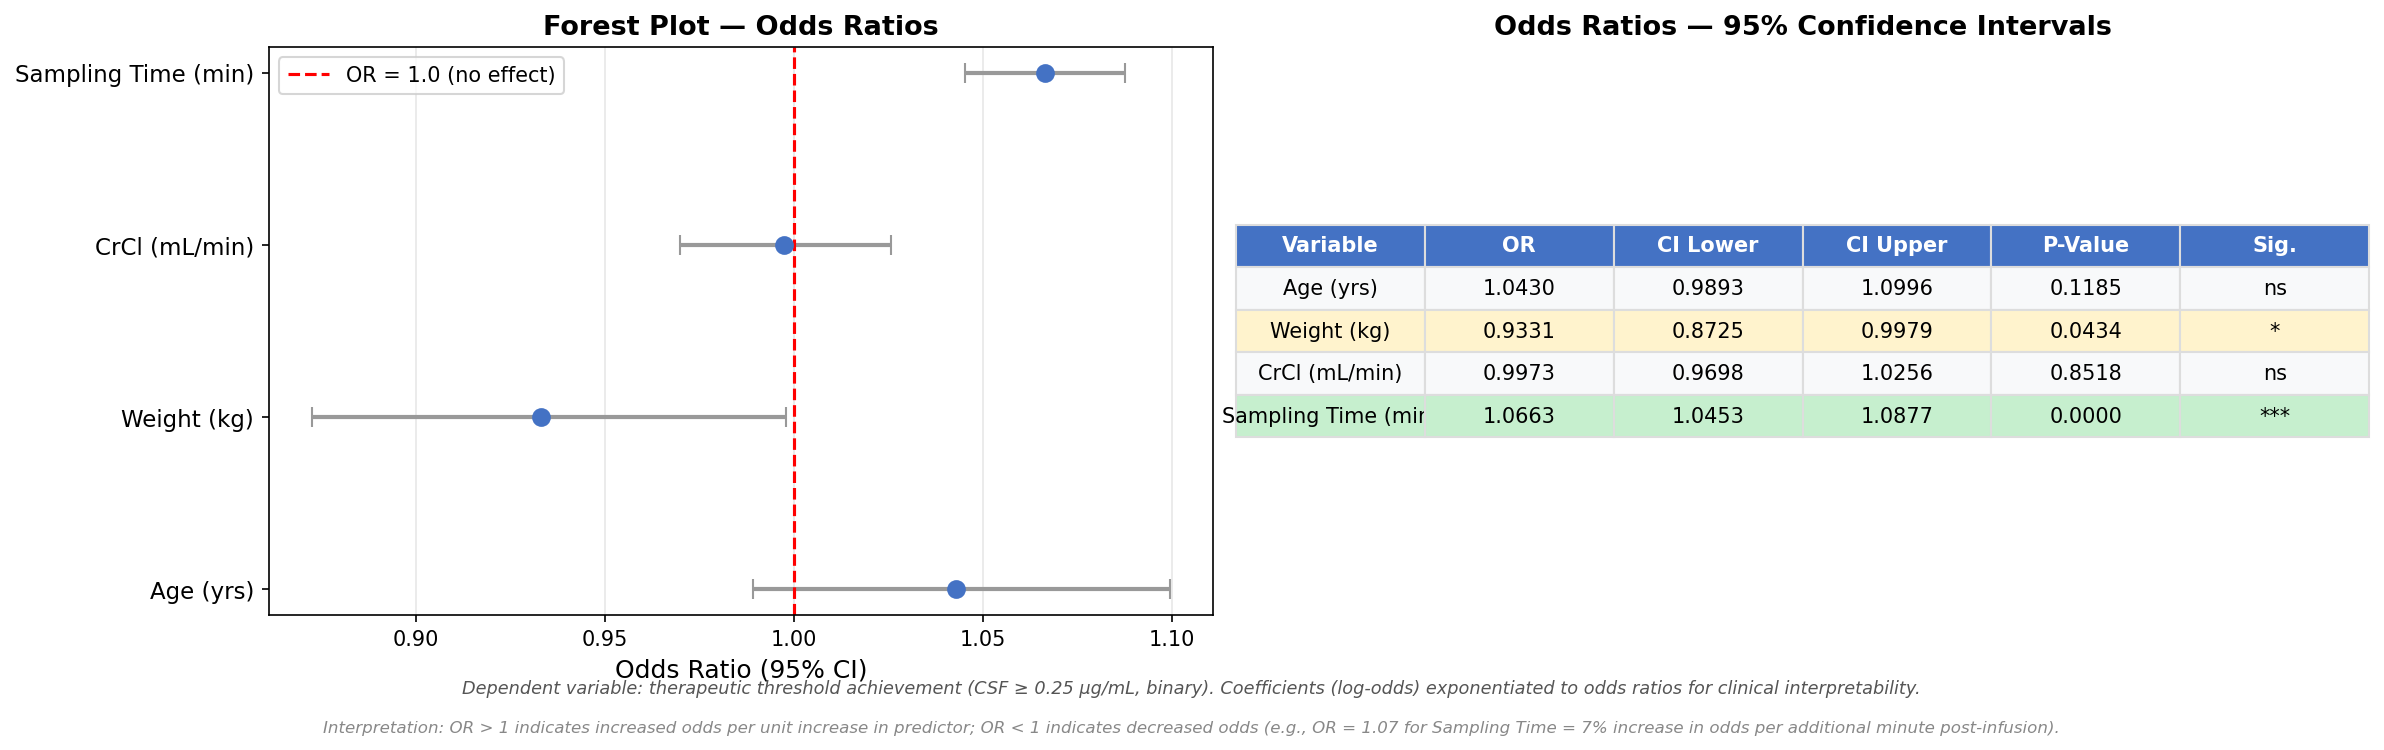
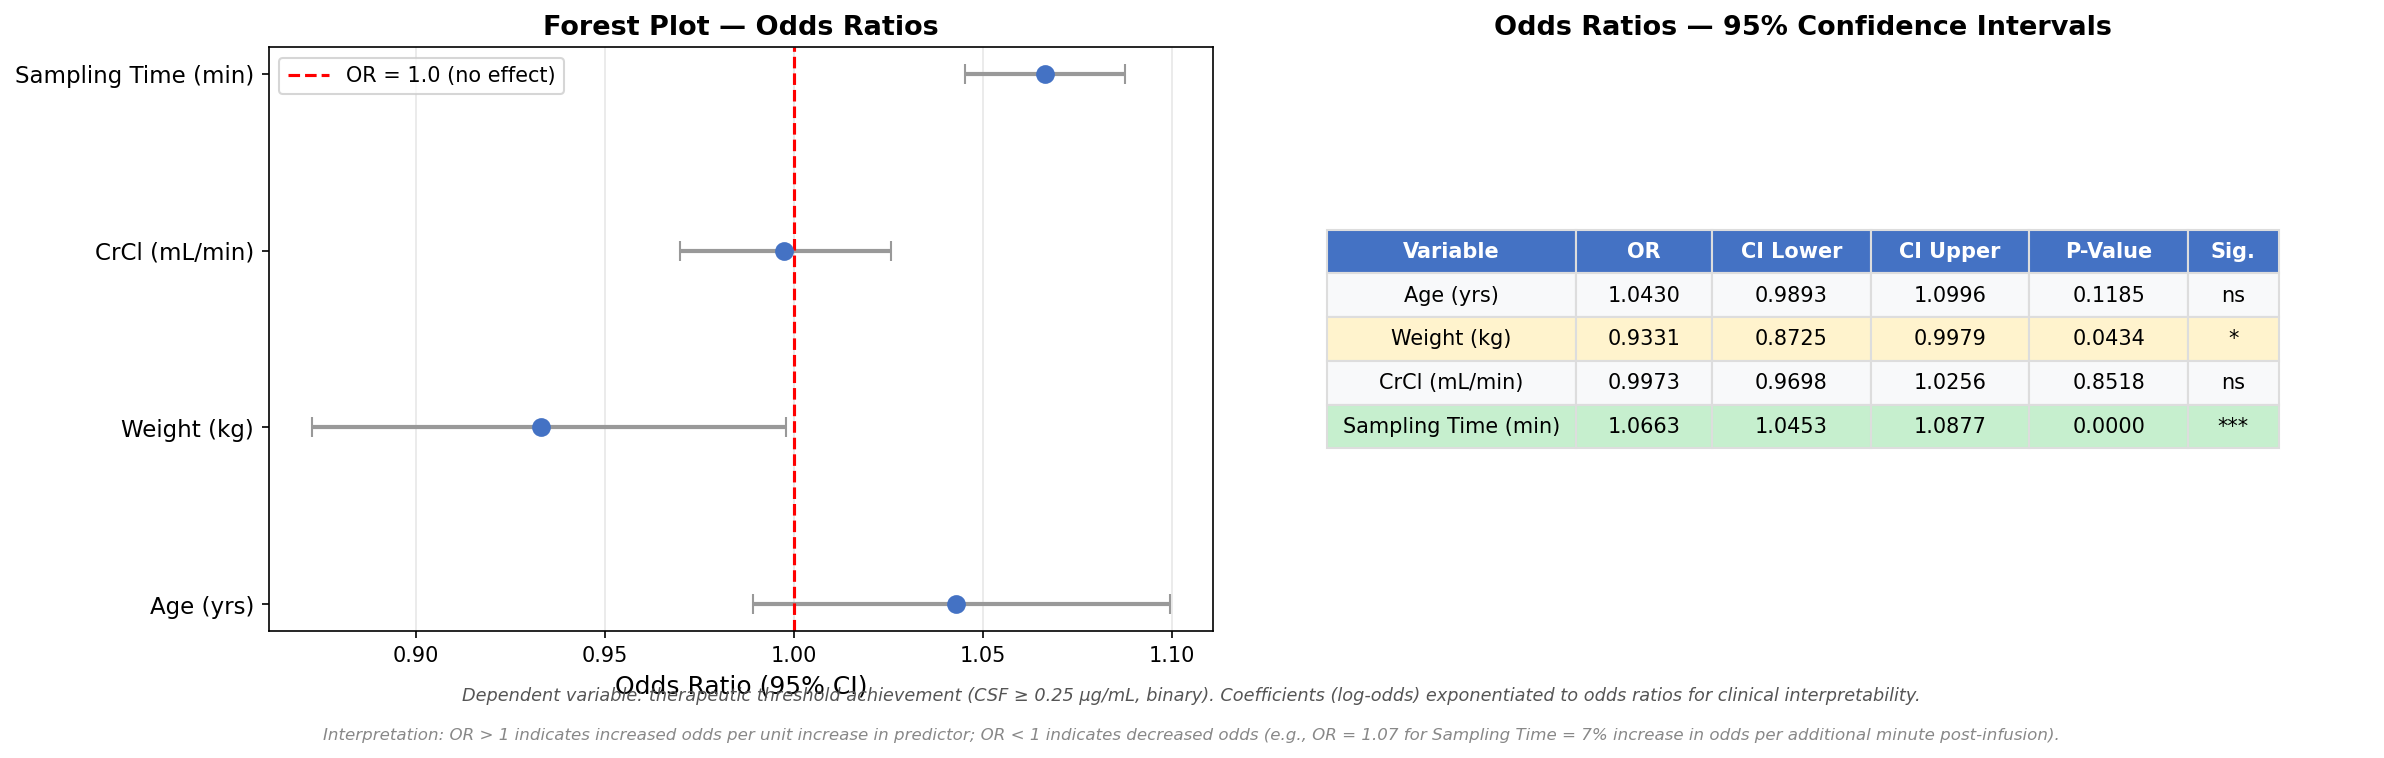
Adjust odds ratios table column widths and footnote spacing

diff --git a/analysis.py b/analysis.py
@@ -252,19 +252,22 @@ table5 = ax5b.table(cellText=or_rows, colLabels=or_col_labels, cellColours=or_co
 table5.auto_set_font_size(False)
 table5.set_fontsize(10)
 table5.scale(1, 1.8)
+# Widen Variable column to fit "Sampling Time (min)"
+col_widths = [0.22, 0.12, 0.14, 0.14, 0.14, 0.08]
 for (row, col), cell in table5.get_celld().items():
+    cell.set_width(col_widths[col])
     if row == 0:
         cell.set_text_props(color="white", fontweight="bold")
     cell.set_edgecolor("#dddddd")
 ax5b.set_title("Odds Ratios — 95% Confidence Intervals", fontsize=13, fontweight="bold")
 
 plt.tight_layout()
-fig5.subplots_adjust(bottom=0.20)
-fig5.text(0.5, 0.10,
+fig5.subplots_adjust(bottom=0.18)
+fig5.text(0.5, 0.09,
           "Dependent variable: therapeutic threshold achievement (CSF ≥ 0.25 µg/mL, binary). "
           "Coefficients (log-odds) exponentiated to odds ratios for clinical interpretability.",
           ha="center", fontsize=8.5, fontstyle="italic", color="#555555")
-fig5.text(0.5, 0.05,
+fig5.text(0.5, 0.04,
           "Interpretation: OR > 1 indicates increased odds per unit increase in predictor; OR < 1 indicates decreased odds "
           "(e.g., OR = 1.07 for Sampling Time = 7% increase in odds per additional minute post-infusion).",
           ha="center", fontsize=8, fontstyle="italic", color="#888888")
